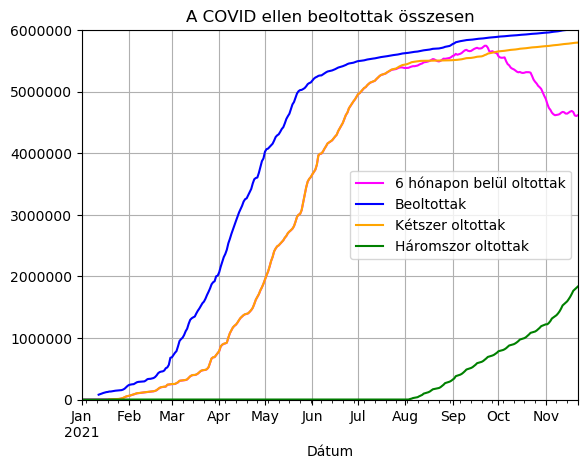
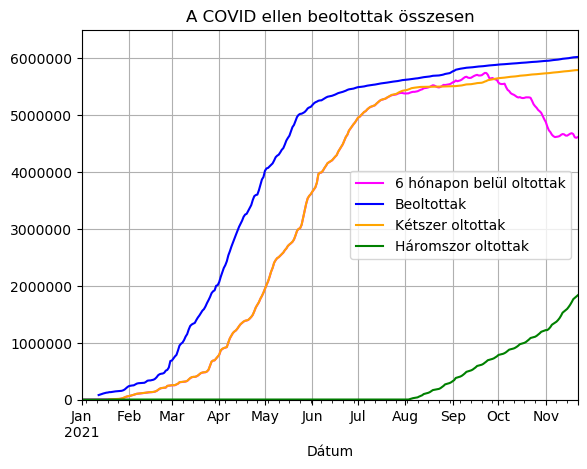
Fix 6 milliós limit

diff --git a/kép_covid_oltottak_összesen.py b/kép_covid_oltottak_összesen.py
@@ -15,7 +15,7 @@ df['6 hónapon belül oltottak'] = ((df['Napi új másodszor oltott'] + df['Napi
 
 
 plot = df.plot(x='Dátum', y=['6 hónapon belül oltottak', 'Beoltottak', 'Kétszer oltottak', 'Háromszor oltottak'],
-               ylim=[0, 6000000], title='A COVID ellen beoltottak összesen', color=['magenta', 'blue', 'orange', 'green'],
+               ylim=[0, 6500000], title='A COVID ellen beoltottak összesen', color=['magenta', 'blue', 'orange', 'green'],
                grid=True)
 
 fig = plot.get_figure()
